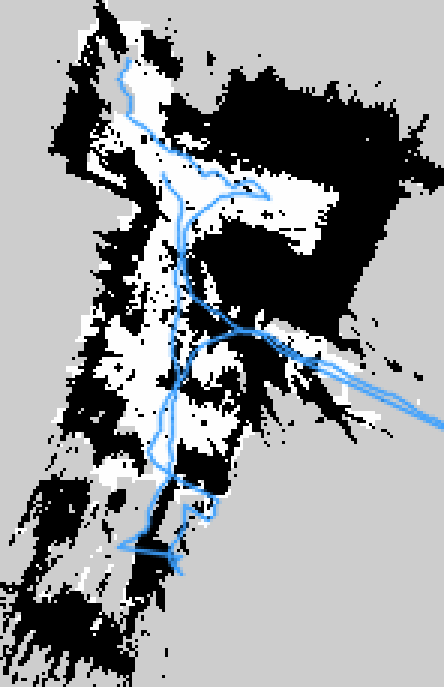
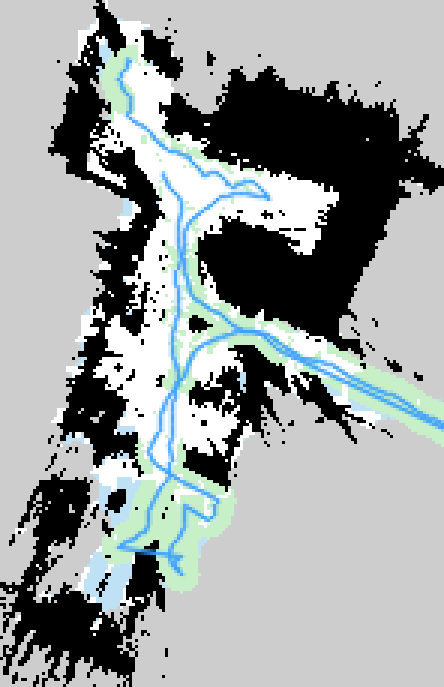
Robot map: walked-path free space, carve false obstacles, inferred-floor layer
Uses the capture path as real evidence: the person carrying the phone walked
there, so the floor exists and was clear.
- walked: 0.3 m footprint along the camera path counts as free floor
- carve: obstacle cells within 0.2 m of the path are cleared (depth streaks)
- inferred: gaps up to 0.5 m between known-free cells with no obstacle seen;
  written only to occupancy_with_inferred.pgm/.yaml and inferred_floor.ply,
  never to the main occupancy map
- preview colours: white seen, green walked, light blue inferred

Real iPhone 17 apartment capture: free cells 4471 -> 6911 (+55%),
1077 false obstacles removed, 482 inferred cells in the separate layer.

diff --git a/recon/robot_map.py b/recon/robot_map.py
@@ -95,7 +95,7 @@ def fit_floor(P, up, cam_centres, iters=600, seed=0, min_rel_support=0.10):
 
 
 def build(ply, cameras_json, out, phone_height=1.4, metric=False, cell=0.05,
-          robot_height=1.8, step_height=0.08):
+          robot_height=1.8, step_height=0.08, walk_radius=0.3, infer_gap=0.5, carve_radius=0.2):
     out.mkdir(parents=True, exist_ok=True)
     P, C = read_ply(ply)
     cams = json.loads(Path(cameras_json).read_text())
@@ -159,27 +159,70 @@ def build(ply, cameras_json, out, phone_height=1.4, metric=False, cell=0.05,
     np.add.at(free, (ij[floor_pts, 1], ij[floor_pts, 0]), 1)
     np.add.at(occ, (ij[obst_pts, 1], ij[obst_pts, 0]), 1)
     occ_mask = occ >= 3
-    free_mask = (free >= 1) & ~occ_mask
+    seen_free = (free >= 1) & ~occ_mask
     # fill small holes in observed floor (sparse stereo on textureless floor)
-    free_mask = cv2.morphologyEx(free_mask.astype(np.uint8), cv2.MORPH_CLOSE,
+    seen_free = cv2.morphologyEx(seen_free.astype(np.uint8), cv2.MORPH_CLOSE,
                                  np.ones((5, 5), np.uint8)).astype(bool) & ~occ_mask
-    grid = np.full((H, W), 205, np.uint8)  # unknown
-    grid[free_mask] = 254
-    grid[occ_mask] = 0
-    grid = grid[::-1]  # PGM row 0 = max y
-    cv2.imwrite(str(out / "occupancy.pgm"), grid)
-    (out / "occupancy.yaml").write_text(
-        f"image: occupancy.pgm\nmode: trinary\nresolution: {cell}\n"
-        f"origin: [{lo[0]:.3f}, {lo[1]:.3f}, 0.0]\nnegate: 0\n"
-        f"occupied_thresh: 0.65\nfree_thresh: 0.25\n")
-    # preview with the camera path drawn on
-    prev = cv2.cvtColor(grid, cv2.COLOR_GRAY2BGR)
-    pts = np.floor((Cw[:, :2] - lo) / cell).astype(int)
+    # Real evidence stereo can miss: the person carrying the phone walked here, so the
+    # floor exists and was free (a ~0.3 m footprint around the projected camera path).
+    path_px = np.floor((Cw[:, :2] - lo) / cell).astype(np.int32)
+    walked = np.zeros((H, W), np.uint8)
+    foot = max(1, int(round(walk_radius / cell)))
+    for a_, b_ in zip(path_px[:-1], path_px[1:]):
+        if np.linalg.norm((b_ - a_) * cell) < 1.0:  # skip jumps across SfM gaps
+            cv2.line(walked, tuple(int(x) for x in a_), tuple(int(x) for x in b_), 1, 2 * foot)
+    # The walker's body swept this space: obstacles reported in the core of the path
+    # (< carve_radius) are false (depth streaks) and get cleared.
+    core = np.zeros((H, W), np.uint8)
+    cr = max(1, int(round(carve_radius / cell)))
+    for a_, b_ in zip(path_px[:-1], path_px[1:]):
+        if np.linalg.norm((b_ - a_) * cell) < 1.0:
+            cv2.line(core, tuple(int(x) for x in a_), tuple(int(x) for x in b_), 1, 2 * cr)
+    carved = occ_mask & core.astype(bool)
+    occ_mask = occ_mask & ~carved
+    walked = walked.astype(bool) & ~occ_mask
+    free_mask = seen_free | walked
+    # Inferred ("imagined") floor: gaps up to ~infer_gap between known-free cells with no
+    # obstacle seen. Kept in a separate layer: plausible, but never observed.
+    g = max(3, int(round(infer_gap / cell)) | 1)
+    closed = cv2.morphologyEx(free_mask.astype(np.uint8), cv2.MORPH_CLOSE,
+                              cv2.getStructuringElement(cv2.MORPH_ELLIPSE, (g, g))).astype(bool)
+    inferred = closed & ~free_mask & ~occ_mask
+
+    def write_grid(name, free_cells):
+        grid = np.full((H, W), 205, np.uint8)  # unknown
+        grid[free_cells] = 254
+        grid[occ_mask] = 0
+        cv2.imwrite(str(out / f"{name}.pgm"), grid[::-1])  # PGM row 0 = max y
+        (out / f"{name}.yaml").write_text(
+            f"image: {name}.pgm\nmode: trinary\nresolution: {cell}\n"
+            f"origin: [{lo[0]:.3f}, {lo[1]:.3f}, 0.0]\nnegate: 0\n"
+            f"occupied_thresh: 0.65\nfree_thresh: 0.25\n")
+    write_grid("occupancy", free_mask)                         # observed + walked
+    write_grid("occupancy_with_inferred", free_mask | inferred)  # + imagined gaps
+    # preview: white seen, light green walked, light blue inferred, black occupied
+    prev = np.full((H, W, 3), 205, np.uint8)
+    prev[seen_free] = (255, 255, 255)
+    prev[walked & ~seen_free] = (200, 240, 200)
+    prev[inferred] = (245, 225, 190)
+    prev[occ_mask] = (0, 0, 0)
+    prev = prev[::-1].copy()
+    pts = path_px.copy()
     pts[:, 1] = H - 1 - pts[:, 1]
     cv2.polylines(prev, [pts.reshape(-1, 1, 2)], False, (255, 160, 60), 1, cv2.LINE_AA)
     k = max(1, int(np.ceil(600 / max(W, H))))
     prev = cv2.resize(prev, (W * k, H * k), interpolation=cv2.INTER_NEAREST)
     cv2.imwrite(str(out / "occupancy_preview.png"), prev)
+    # inferred floor as points (for the viewer), coloured like the observed floor, z = 0
+    fill = (walked & ~seen_free) | inferred
+    if fill.any() and floor_pts.any():
+        fy, fx = np.nonzero(fill)
+        Pi = np.stack([lo[0] + (fx + 0.5) * cell, lo[1] + (fy + 0.5) * cell, np.zeros(len(fx))], 1)
+        # sub-sample each cell a little so it renders as a surface, not a dot grid
+        jit = np.random.default_rng(0).uniform(-0.5, 0.5, (len(Pi) * 4, 2)) * cell
+        Pi = np.repeat(Pi, 4, 0); Pi[:, :2] += jit
+        col = np.median(C[floor_pts], 0)
+        write_ply(out / "inferred_floor.ply", Pi, np.tile(col, (len(Pi), 1)).astype(np.uint8))
 
     # ---------------- 3D voxel occupancy ----------------
     vox = 0.05
@@ -200,7 +243,10 @@ def build(ply, cameras_json, out, phone_height=1.4, metric=False, cell=0.05,
     meta = {"scale_applied": float(scale), "metric_source": "arkit" if metric else
             f"phone_height={phone_height}m", "floor_inlier_fraction": float(frac),
             "grid_cell_m": cell, "grid_size": [int(W), int(H)],
-            "free_cells": int(free_mask.sum()), "occupied_cells": int(occ_mask.sum()),
+            "free_cells": int(free_mask.sum()), "free_cells_seen": int(seen_free.sum()),
+            "free_cells_walked_only": int((walked & ~seen_free).sum()),
+            "inferred_cells": int(inferred.sum()), "occupied_cells": int(occ_mask.sum()),
+            "false_obstacles_carved_by_walk": int(carved.sum()),
             "points": int(len(Pw)), "voxels_5cm": int(len(vi)),
             "scene_extent_m": (Pw.max(0) - Pw.min(0)).round(2).tolist(),
             "camera_height_median_m": float(np.median(Cw[:, 2])), "warnings": warnings}
